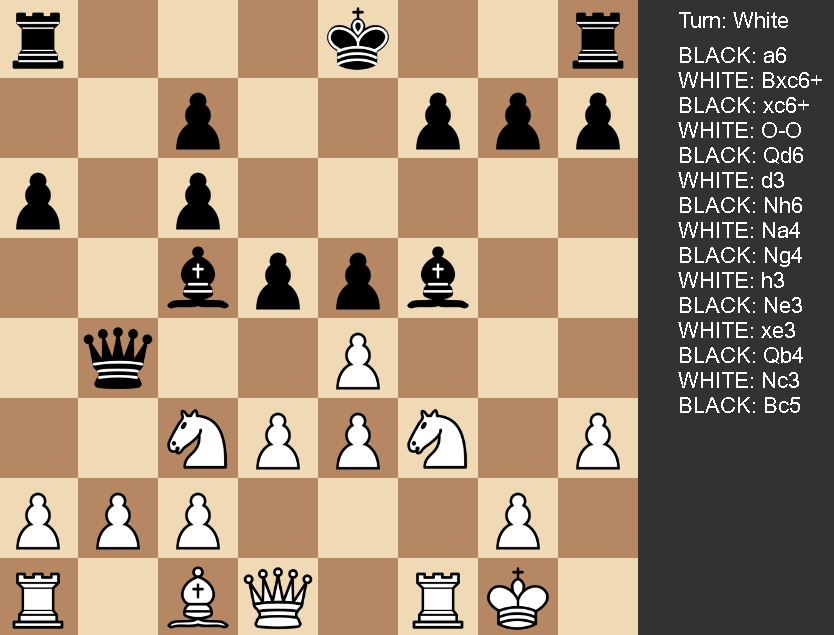
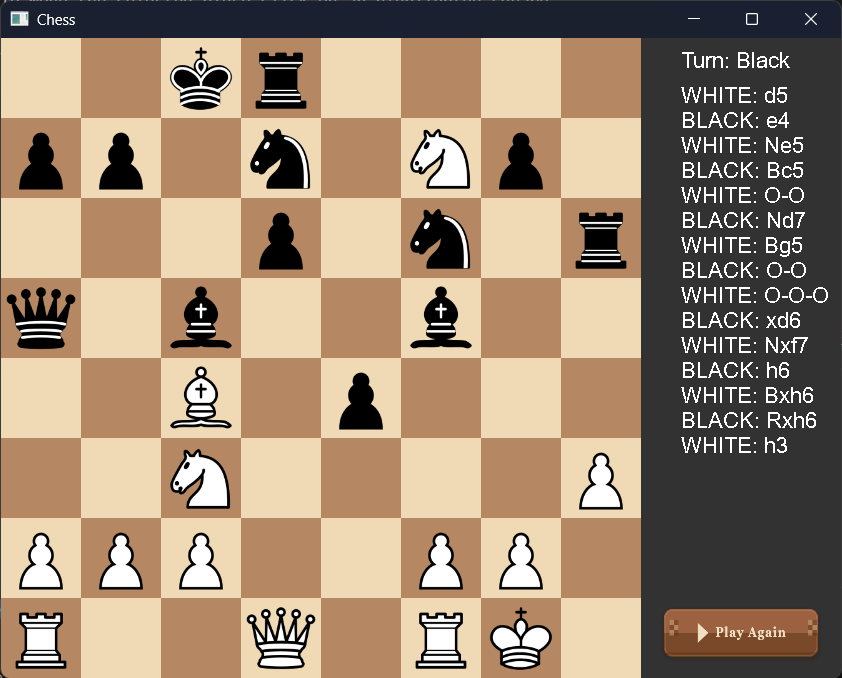
aggiornato README.md

diff --git a/README.md b/README.md
@@ -75,7 +75,7 @@ A chess game project implemented in C++ using SDL3 and miniaudio
     - Check, checkmate, draw, stall
     
 # 🚀 Things to improve in the future
-- [ ] Insert a restart button
+- [x] Insert a restart button
 - [ ] Insert AI opponent for making it playable single player
 - [ ] Insert timer
 
